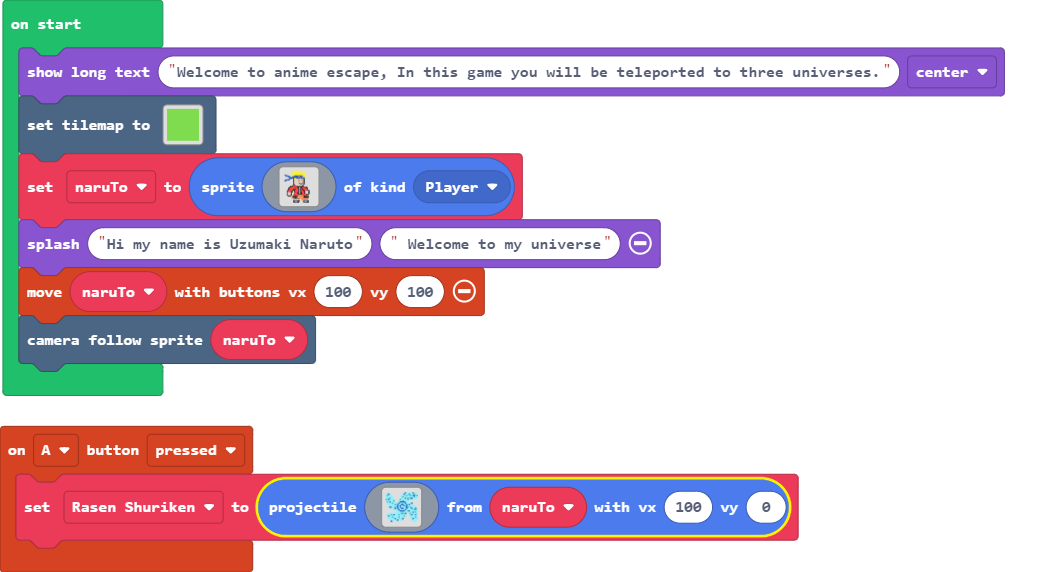
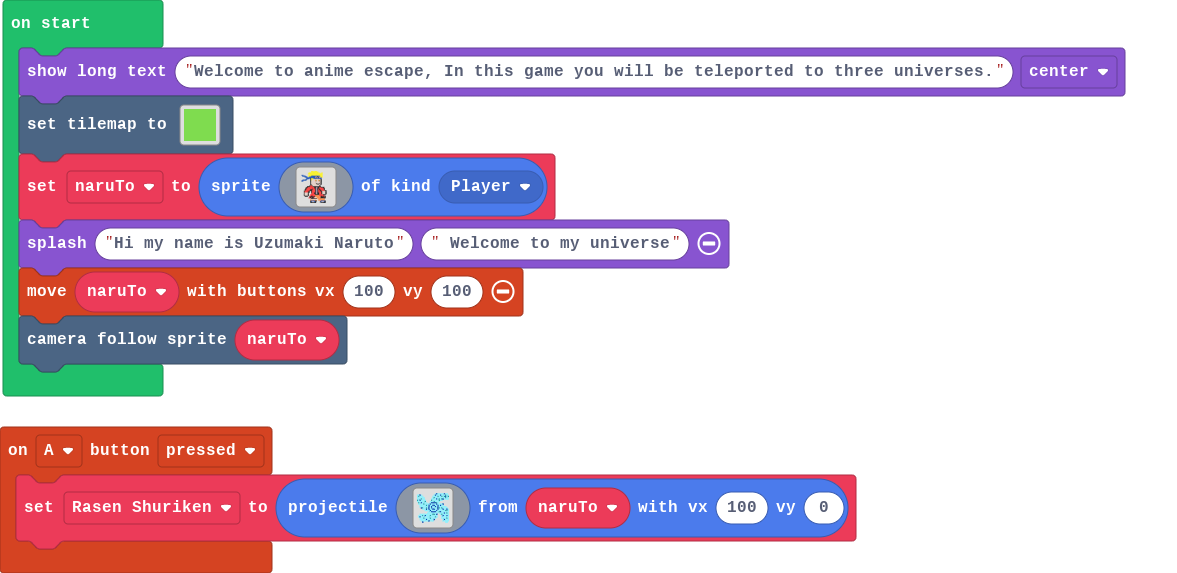
Update main.blocks, images.g.jres, images.g.ts

diff --git a/images.g.ts b/images.g.ts
@@ -132,49 +132,6 @@ namespace myImages {
 ........fddddff......fdddf..............
 ........ffffff.......fffff..............
 `;
-            case "image2":
-            case "Muzan":return img`
-........................................
-........................................
-........................................
-...........3............................
-........................................
-........................................
-.............................3..........
-........................................
-.............................3..........
-.............................3..........
-.............................3..........
-.............................3..........
-..............................3.........
-..............................3.........
-..............................3.........
-..........3...................3.........
-..........3...................3.........
-..........3...................3.........
-...........3..................3.........
-...........3..................3.........
-............3.................3.........
-.............3................3.........
-..............3..............3..........
-...............3.............3..........
-................33..........3...........
-..................333.....33............
-.....................33333..............
-........................................
-........................................
-........................................
-........................................
-........................................
-........................................
-........................................
-........................................
-........................................
-........................................
-........................................
-........................................
-........................................
-`;
             case "_P*{r%-CaF(tZ7L9J06{":
             case "rasen shuriken":return img`
 .........................
@@ -202,6 +159,48 @@ namespace myImages {
 ...9999998999.......99999
 ....8.................99.
 .........................
+`;
+            case "image2":
+            case "Muzan":return img`
+.........111111111.......
+........1111111111b......
+.......11111111111bb.....
+.......1111111111bbbb....
+......1111111111bbbbb....
+......11ffffffffffbbb....
+......ffffffffffffffb....
+.....fff1111111111fff....
+.....f11111111111111ff...
+....111ffdddddffff11111..
+...11bfffdddddffffffbb11.
+..1bbfffdddddddffffffbbb1
+...bbffd22dd22ddfffffffbb
+....bbfd22dd22ddfffdfffb.
+.....ffd33dd33dffdfdffb..
+......fdddddddddfdddf....
+......ddddddddddddfff....
+.......ddddddddddfff.....
+........dddddddfff.......
+........cfdfcffff........
+.......ccbfbccffff.......
+......fccb11ccfffff......
+......ffcb11cffffff......
+.....fffccbccfffffff.....
+.....ffffc1cffffffff.....
+....ffffffaffffffffff....
+....ffffff4ffffffffff....
+f22.fffffffffffffffff....
+2f2.ffffff4ffffffffff....
+222.fffffffffffffffff....
+..fdddfffffffffffdddd....
+...fddffffffffffffddd....
+....f.1bbbbbbbbbbb.......
+......11bbbb.111bb.......
+......111b....111b.......
+......111b....111b.......
+......111b....111b.......
+.....fffff....ffff.......
+.....fffff....ffff.......
 `;
         }
         return null;
